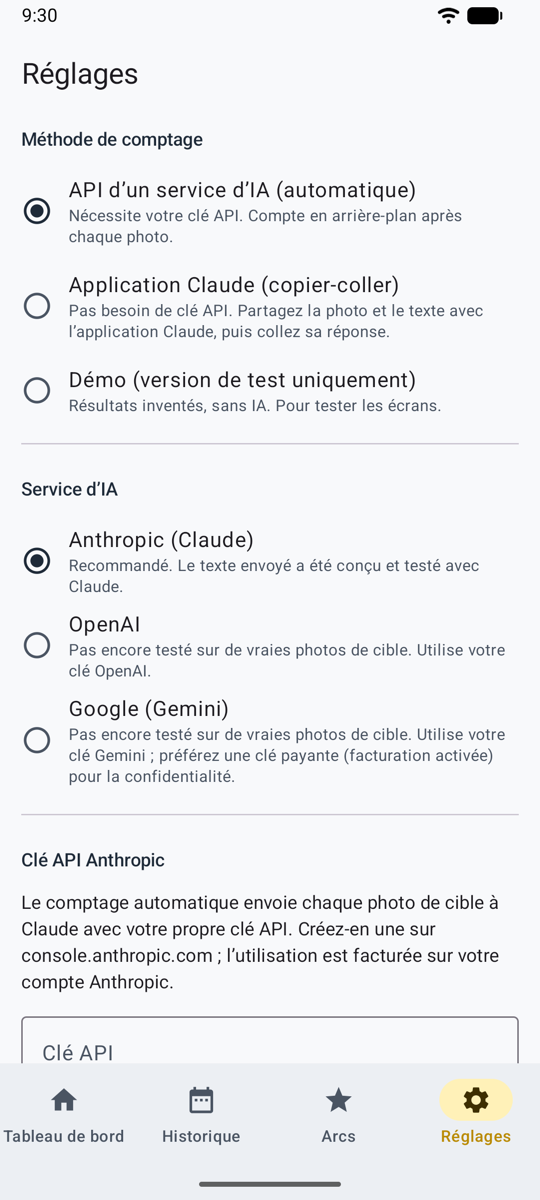
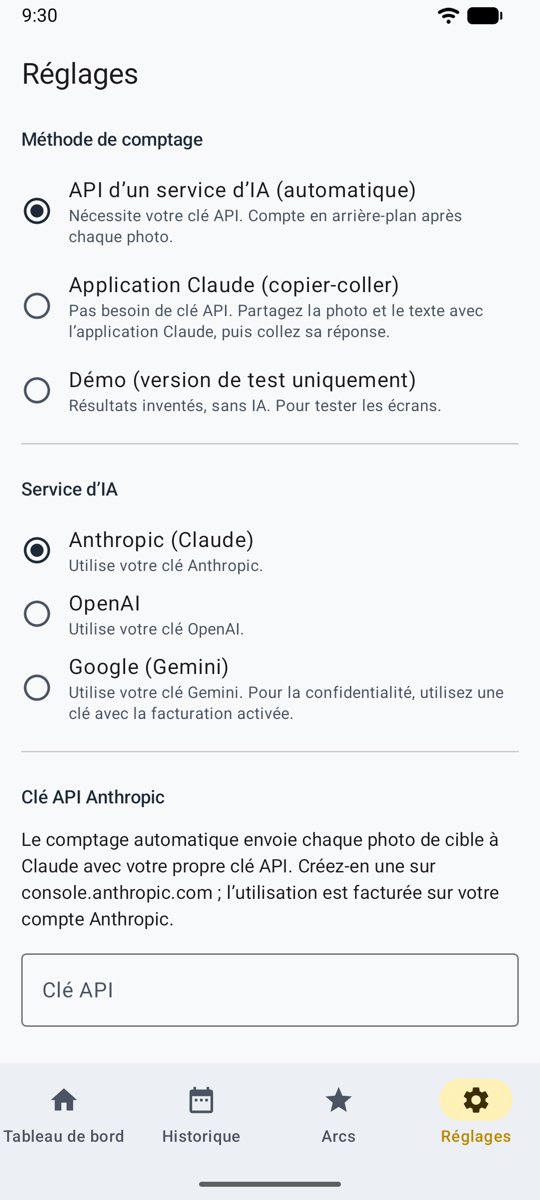
Site: neutral about AI services (no recommendation, no Claude app or copy and paste)

Changed region(s): [[0.0296, 0.4317, 0.9778, 0.8942]]

diff --git a/ullr/docs/guide.fr.md b/ullr/docs/guide.fr.md
@@ -27,26 +27,22 @@ L'application suit la langue de votre téléphone (français ou anglais). Sur An
 
 | Méthode | Il vous faut | Fonctionnement |
 |---------|--------------|----------------|
-| **API d’un service d’IA (automatique)** | Une clé API Anthropic, OpenAI ou Google | Chaque photo est comptée en arrière-plan. La volée est prête à vérifier quelques secondes plus tard. |
-| **Application Claude (copier-coller)** | L'application Claude sur votre téléphone | Vous partagez la photo et un texte avec l'application Claude, puis vous collez sa réponse. Pas de clé. |
+| **API d’un service d’IA (automatique)** | Une clé API du service d'IA de votre choix (Anthropic, Google ou OpenAI) | Chaque photo est comptée en arrière-plan. La volée est prête à vérifier quelques secondes plus tard. |
 | **Saisir à la main** | Rien | Possible sur chaque volée, avec n'importe quelle méthode. |
 
 ### Choisir le service d'IA
 
-![Réglages : la méthode de comptage, puis le choix du service d'IA : Anthropic (Claude), OpenAI ou Google (Gemini), puis la clé du service choisi.](images/screenshots/fr/settings.png){ .shot width="240" }
+![Réglages : la méthode de comptage, puis le choix du service d'IA, puis la clé du service choisi.](images/screenshots/fr/settings.png){ .shot width="240" }
 
 Avec la méthode API, **Réglages → Service d’IA** propose :
 
-| Service | Modèles | Remarques |
-|---------|---------|-----------|
-| **Anthropic (Claude)** | Opus 5.5 (par défaut), Sonnet 5.5 | Recommandé : les consignes ont été conçues et testées avec Claude. |
-| **OpenAI** | GPT-6.1 Sol (par défaut), GPT-6 Astra (le plus puissant, environ 5 fois plus cher) | Pas encore testé sur de vraies photos de cible. |
-| **Google (Gemini)** | Gemini 4 Carbon (par défaut), Gemini 3.8 Flash (plus rapide, moins cher) | Pas encore testé sur de vraies photos de cible. Utilisez une clé d'un projet avec la facturation activée (voir [Confidentialité](privacy.md)). |
+| Service | Modèles |
+|---------|---------|
+| **Anthropic (Claude)** | Opus 5.5 (par défaut), Sonnet 5.5 (moins cher) |
+| **Google (Gemini)** | Gemini 4 Carbon (par défaut), Gemini 3.8 Flash (plus rapide, moins cher). Utilisez une clé d'un projet avec la facturation activée (voir [Confidentialité](privacy.md)). |
+| **OpenAI** | GPT-6.1 Sol (par défaut), GPT-6 Astra (le plus puissant, environ 5 fois plus cher) |
 
 Chaque service garde sa propre clé : vous pouvez changer de service et revenir sans retaper de clé.
-
-!!! note "Un abonnement Claude Pro ou Max"
-    Ullr ne peut pas se connecter avec un abonnement Claude : Anthropic n'autorise ces connexions que dans ses propres applications. La méthode **Application Claude (copier-coller)** est la façon autorisée de compter avec votre abonnement.
 
 ### Obtenir et enregistrer une clé API
 
@@ -65,7 +61,7 @@ La clé est chiffrée sur le téléphone. Elle n'est plus jamais affichée, et *
 
 | Modèle | Par volée | Séance de 30 volées |
 |--------|-----------|---------------------|
-| Claude Opus 5.5 (par défaut) | environ 0,05–0,10 $ US | environ 1,50–3,00 $ US |
+| Claude Opus 5.5 | environ 0,05–0,10 $ US | environ 1,50–3,00 $ US |
 | Claude Sonnet 5.5 | environ 0,03–0,05 $ US | environ 0,75–1,50 $ US |
 | GPT-6.1 Sol | environ 0,02–0,05 $ US | environ 0,60–1,50 $ US |
 | GPT-6 Astra | environ 0,10–0,25 $ US | environ 3–7,50 $ US |
@@ -101,7 +97,7 @@ La clé est chiffrée sur le téléphone. Elle n'est plus jamais affichée, et *
 | en attente de comptage | Pas encore de réseau, ou en file d'attente. Le comptage démarre tout seul au retour du réseau. |
 | comptage en cours… | L'IA lit la photo. |
 | à vérifier | Ouvrez-la et validez. |
-| non comptée | Un problème est survenu. Touchez pour réessayer, saisir à la main ou utiliser l'application Claude. |
+| non comptée | Un problème est survenu. Touchez pour réessayer ou saisir à la main. |
 
 Pas besoin d'attendre : tirez la volée suivante pendant que la précédente est comptée.
 
@@ -198,7 +194,7 @@ Modifier un arc plus tard ne change pas les séances passées.
 
 **La volée indique « non comptée ».** Ouvrez-la pour savoir pourquoi :
 
-- *Pas de clé API :* ajoutez-en une dans les réglages, ou passez à l'application Claude.
+- *Pas de clé API :* ajoutez celle du service choisi dans les réglages.
 - *Clé refusée :* la clé a été supprimée ou mal tapée. Vérifiez-la dans les réglages.
 - *Service indisponible :* l'application a réessayé trois fois. Touchez **Réessayer** plus tard.
 - *Plus de crédit :* ajoutez du crédit chez le service, ou relevez sa limite, puis réessayez.

diff --git a/ullr/docs/guide.md b/ullr/docs/guide.md
@@ -27,26 +27,22 @@ The app follows your phone's language (English or French). On Android 13 and lat
 
 | Method | You need | How it works |
 |--------|----------|--------------|
-| **AI service API (automatic)** (*API d’un service d’IA*) | An API key for Anthropic, OpenAI or Google | Each photo is scored in the background. The end is ready to check a few seconds later. |
-| **Claude app (copy and paste)** (*Application Claude*) | The Claude app on your phone | You share the photo and a prompt to the Claude app, then paste its answer back. No key needed. |
+| **AI service API (automatic)** (*API d’un service d’IA*) | An API key for the AI service of your choice (Anthropic, Google or OpenAI) | Each photo is scored in the background. The end is ready to check a few seconds later. |
 | **Score by hand** | Nothing | Available on every end, with any method. |
 
 ### Choose the AI service
 
-![Settings: scoring method, then the AI service choice: Anthropic (Claude), OpenAI or Google (Gemini), then the key for the chosen service.](images/screenshots/settings.png){ .shot width="240" }
+![Settings: scoring method, then the choice of AI service, then the key for the chosen service.](images/screenshots/settings.png){ .shot width="240" }
 
 With the API method, **Settings → AI service** (*Service d’IA*) offers:
 
-| Service | Models | Notes |
-|---------|--------|-------|
-| **Anthropic (Claude)** | Opus 5.5 (default), Sonnet 5.5 | Recommended: the instructions were designed and tested with Claude. |
-| **OpenAI** | GPT-6.1 Sol (default), GPT-6 Astra (most capable, about 5 times the price) | Not tested on real target photos yet. |
-| **Google (Gemini)** | Gemini 4 Carbon (default), Gemini 3.8 Flash (faster, cheaper) | Not tested on real target photos yet. Use a key from a project with billing turned on (see [Privacy](privacy.md)). |
+| Service | Models |
+|---------|--------|
+| **Anthropic (Claude)** | Opus 5.5 (default), Sonnet 5.5 (cheaper) |
+| **Google (Gemini)** | Gemini 4 Carbon (default), Gemini 3.8 Flash (faster, cheaper). Use a key from a project with billing turned on (see [Privacy](privacy.md)). |
+| **OpenAI** | GPT-6.1 Sol (default), GPT-6 Astra (most capable, about 5 times the price) |
 
 Each service keeps its own key, so you can switch and come back without typing a key again.
-
-!!! note "A Claude Pro or Max subscription"
-    Ullr can't sign in with a Claude subscription: Anthropic only allows those logins in its own apps. The **Claude app (copy and paste)** method is the permitted way to score with your subscription.
 
 ### Get and save an API key
 
@@ -65,7 +61,7 @@ The key is stored encrypted on the phone. It is never shown again, and **Remove 
 
 | Model | Per end | 30-end session |
 |-------|---------|----------------|
-| Claude Opus 5.5 (default) | about $0.05–0.10 | about $1.50–3.00 |
+| Claude Opus 5.5 | about $0.05–0.10 | about $1.50–3.00 |
 | Claude Sonnet 5.5 | about $0.03–0.05 | about $0.75–1.50 |
 | GPT-6.1 Sol | about $0.02–0.05 | about $0.60–1.50 |
 | GPT-6 Astra | about $0.10–0.25 | about $3–7.50 |
@@ -101,7 +97,7 @@ The key is stored encrypted on the phone. It is never shown again, and **Remove 
 | waiting to score (*en attente de comptage*) | No network yet, or queued. It starts by itself when the network comes back. |
 | scoring… (*comptage en cours…*) | The AI is reading the photo. |
 | ready to check (*à vérifier*) | Open it and confirm. |
-| not scored (*non comptée*) | Something went wrong. Tap to retry, score by hand, or use the Claude app. |
+| not scored (*non comptée*) | Something went wrong. Tap to retry or score by hand. |
 
 You don't have to wait: shoot the next end while the previous one is being scored.
 
@@ -198,7 +194,7 @@ Changing a bow later doesn't change past sessions.
 
 **The end says "not scored".** Open it to see why:
 
-- *No API key:* add one in Settings, or switch to the Claude app.
+- *No API key:* add the chosen service's key in Settings.
 - *Key refused:* the key was deleted or mistyped. Check it in Settings.
 - *Service unavailable:* the app retried three times. Tap **Retry** (*Réessayer*) later.
 - *No credit left:* add credit with that service, or raise its limit, then retry.

diff --git a/ullr/docs/how-it-works.fr.md b/ullr/docs/how-it-works.fr.md
@@ -70,18 +70,19 @@ Vous corrigez une flèche entourée d'une touche, ajoutez une flèche oubliée o
 
 <div class="shots" markdown>
 <figure markdown>
-![Réglages : la méthode de comptage et le choix entre Anthropic, OpenAI et Google Gemini.](images/screenshots/fr/settings.png){ .shot }
+![Réglages : la méthode de comptage et le choix du service d'IA.](images/screenshots/fr/settings.png){ .shot }
 <figcaption>Choisir l'IA dans les réglages</figcaption>
 </figure>
 </div>
 
-| Service | Comment | Remarques |
-|---------|---------|-----------|
-| **Claude d'Anthropic** | Votre propre clé API | Recommandé. |
-| **OpenAI** | Votre propre clé API | Mêmes consignes. Pas encore testé sur de vraies photos de cible. |
-| **Google Gemini** | Votre propre clé API | Mêmes consignes. Pas encore testé sur de vraies photos de cible. |
-| **Application Claude** | Copier-coller, sans clé | Utilise votre propre compte ou abonnement Claude. |
-| **À la main** | Rien | Toujours possible, sur chaque volée. |
+| Service | Comment |
+|---------|---------|
+| **Anthropic (Claude)** | Votre propre clé API |
+| **Google (Gemini)** | Votre propre clé API |
+| **OpenAI** | Votre propre clé API |
+| **À la main** | Rien : toujours possible, sur chaque volée |
+
+Les trois services reçoivent exactement les mêmes consignes. Vous choisissez celui que vous préférez, et vous pouvez en changer à tout moment.
 
 ## Au pas de tir
 

diff --git a/ullr/docs/how-it-works.md b/ullr/docs/how-it-works.md
@@ -70,18 +70,19 @@ You fix any circled arrow with one tap, add a missed arrow or remove another arc
 
 <div class="shots" markdown>
 <figure markdown>
-![Settings: scoring method and the choice of Anthropic, OpenAI or Google Gemini.](images/screenshots/settings.png){ .shot }
+![Settings: scoring method and the choice of AI service.](images/screenshots/settings.png){ .shot }
 <figcaption>Choosing the AI in Settings</figcaption>
 </figure>
 </div>
 
-| Service | How | Notes |
-|---------|-----|-------|
-| **Anthropic Claude** | Your own API key | Recommended. |
-| **OpenAI** | Your own API key | Same instructions. Not yet tested on real target photos. |
-| **Google Gemini** | Your own API key | Same instructions. Not yet tested on real target photos. |
-| **Claude app** | Copy and paste, no key | Uses your own Claude account or subscription. |
-| **By hand** | Nothing | Always possible, on any end. |
+| Service | How |
+|---------|-----|
+| **Anthropic (Claude)** | Your own API key |
+| **Google (Gemini)** | Your own API key |
+| **OpenAI** | Your own API key |
+| **By hand** | Nothing: always possible, on any end |
+
+All three services receive exactly the same instructions. Pick the one you prefer, and change it any time.
 
 ## At the range
 

diff --git a/ullr/docs/index.fr.md b/ullr/docs/index.fr.md
@@ -80,7 +80,7 @@ hide:
 |---|---|
 | **Toutes vos séances** | Lieu, date, type d'arc (traditionnel, classique, olympique, à poulies) et arc, distance, blason, nombre de blasons sur la butte, n'importe quel nombre de flèches par volée. |
 | **Votre règle de comptage** | X = 10, 10 intérieur seulement (arc à poulies World Archery) ou X = 11, choisie pour chaque séance, avec une valeur par défaut dans les réglages. Changez-la plus tard : tous les totaux sont recalculés. |
-| **Le choix de l'IA** | Claude d'Anthropic (recommandé), OpenAI ou Google Gemini avec votre propre clé, ou l'application Claude en copier-coller, sans clé. |
+| **Le service d'IA de votre choix** | Anthropic (Claude), Google (Gemini) ou OpenAI, avec votre propre clé API. Les trois reçoivent les mêmes consignes. |
 | **Pensé pour le pas de tir** | Pas de réseau ? Les photos sont enregistrées et comptées dès que le téléphone est de nouveau en ligne. Vous pouvez toujours saisir une volée à la main. |
 | **Vos arcs** | Plusieurs arcs, avec un catalogue d'arcs à poulies actuels (PSE, Hoyt, Mathews, Bowtech), puissance et allonge. |
 | **Français et anglais** | Toute l'application suit la langue de votre téléphone. |

diff --git a/ullr/docs/index.md b/ullr/docs/index.md
@@ -80,7 +80,7 @@ hide:
 |---|---|
 | **Any session** | Place, date, bow type (traditional, recurve, olympic, compound) and bow, distance, target face, number of paper faces, any number of arrows per end. |
 | **Your scoring rule** | X = 10, inner 10 only (World Archery compound) or X = 11, chosen per session, with a default in Settings. Change it later and every total is recalculated. |
-| **Choice of AI** | Anthropic Claude (recommended), OpenAI or Google Gemini with your own key, or the Claude app by copy and paste, with no key. |
+| **The AI service of your choice** | Anthropic (Claude), Google (Gemini) or OpenAI, with your own API key. All three get the same instructions. |
 | **Works at the range** | No signal? Photos are saved and scored when the phone is back online. You can always score an end by hand. |
 | **Bows** | Several bows, with a catalog of current compound bows (PSE, Hoyt, Mathews, Bowtech), draw weight and draw length. |
 | **English and French** | The whole app follows your phone's language. |

diff --git a/ullr/docs/roadmap.fr.md b/ullr/docs/roadmap.fr.md
@@ -7,7 +7,7 @@ Ullr est un projet personnel, construit au grand jour. Voici où il en est.
 - [x] Des séances avec n'importe quel arc, blason, nombre de blasons et de flèches par volée, y compris deux trispots à la fois
 - [x] Le comptage par IA à partir d'une photo, avec les flèches incertaines entourées et une correction d'une touche
 - [x] La règle de la ligne et votre règle de comptage (X = 10, 10 intérieur, X = 11) expliquées à l'IA avec chaque photo
-- [x] Le choix de l'IA : Claude d'Anthropic, OpenAI ou Google Gemini avec votre propre clé, ou l'application Claude sans clé
+- [x] Le service d'IA de votre choix (Anthropic, Google ou OpenAI), avec votre propre clé
 - [x] Fonctionne sans réseau : les photos sont enregistrées et comptées plus tard, ou saisies à la main
 - [x] Tableau de bord, historique, feuille de marque et graphique des volées
 - [x] Vos arcs, avec un catalogue d'arcs à poulies actuels, la puissance et l'allonge

diff --git a/ullr/docs/screenshots.fr.md b/ullr/docs/screenshots.fr.md
@@ -56,8 +56,8 @@ Prises avec **Ullr Demo**, une version de l'application remplie de six mois de s
 
 <div class="shots" markdown>
 <figure markdown>
-![Réglages : la méthode API d'un service d'IA, et le choix entre Anthropic, OpenAI et Google Gemini.](images/screenshots/fr/settings.png){ .shot }
-<figcaption><b>Le choix de l'IA.</b> Anthropic (recommandé), OpenAI ou Google Gemini.</figcaption>
+![Réglages : la méthode API d'un service d'IA, et le choix du service.](images/screenshots/fr/settings.png){ .shot }
+<figcaption><b>Le choix de l'IA.</b> Le service de votre choix, avec votre propre clé.</figcaption>
 </figure>
 <figure markdown>
 ![La section Confidentialité des réglages : l'option N'envoyer que la zone de la cible, et ce qui est envoyé et ce qui ne l'est jamais.](images/screenshots/fr/settings-privacy.png){ .shot }

diff --git a/ullr/docs/roadmap.md b/ullr/docs/roadmap.md
@@ -7,7 +7,7 @@ Ullr is a personal project, built in the open. Here's where it stands.
 - [x] Sessions with any bow, face, number of paper faces and arrows per end, including two 3-spot faces at once
 - [x] AI scoring from a photo, with uncertain arrows circled and a one-tap fix
 - [x] The line rule and your scoring rule (X = 10, inner 10, X = 11) explained to the AI with every photo
-- [x] Choice of AI: Anthropic Claude, OpenAI or Google Gemini with your own key, or the Claude app with no key
+- [x] The AI service of your choice (Anthropic, Google or OpenAI), with your own key
 - [x] Works without signal: photos are saved and scored later, or scored by hand
 - [x] Dashboard, history, scoresheet and score-by-end chart
 - [x] Bows, with a catalog of current compound bows, draw weight and draw length

diff --git a/ullr/docs/screenshots.md b/ullr/docs/screenshots.md
@@ -56,8 +56,8 @@ Taken with **Ullr Demo**, a version of the app filled with six months of made-up
 
 <div class="shots" markdown>
 <figure markdown>
-![Settings: scoring method AI service API, and the choice of Anthropic, OpenAI or Google Gemini.](images/screenshots/settings.png){ .shot }
-<figcaption><b>Choice of AI.</b> Anthropic (recommended), OpenAI or Google Gemini.</figcaption>
+![Settings: scoring method AI service API, and the choice of service.](images/screenshots/settings.png){ .shot }
+<figcaption><b>Choice of AI.</b> The service of your choice, with your own key.</figcaption>
 </figure>
 <figure markdown>
 ![Settings privacy section: the send only the target area switch, and what is sent and never sent.](images/screenshots/settings-privacy.png){ .shot }

diff --git a/ullr/docs/privacy.fr.md b/ullr/docs/privacy.fr.md
@@ -41,8 +41,6 @@ Les réglages affichent la même liste, sous **Ce qui est envoyé à …**, pour
 !!! warning "Gemini : utilisez une clé avec la facturation activée"
     Avec l'offre gratuite de Google, vos photos de cible peuvent être utilisées par Google et vues par des examinateurs. Utilisez une clé d'un projet Google Cloud avec la facturation activée. Ullr ne peut pas le vérifier à votre place.
 
-Avec la méthode **Application Claude**, la photo recadrée et le texte passent par votre propre compte Claude, et restent dans cette conversation comme n'importe quel autre échange.
-
 ## Votre clé API
 
 - Elle est chiffrée sur le téléphone, n'est plus jamais affichée, et n'est jamais mise dans un export.

diff --git a/ullr/docs/security.fr.md b/ullr/docs/security.fr.md
@@ -75,9 +75,6 @@ Seulement l'appareil photo, pour photographier la cible, et l'accès à Internet
 **Quelqu'un vérifie-t-il l'application ?**
 Chaque modification est testée automatiquement : plus de 75 tests couvrent le comptage, les consignes envoyées à l'IA, et exactement ce qui sort du téléphone. La conception a été revue sous l'angle de la confidentialité et de la sécurité, et les bibliothèques utilisées sont tenues à jour.
 
-**Et si j'utilise l'application Claude au lieu d'une clé ?**
-La photo recadrée passe alors par votre propre compte Claude, comme l'une de vos conversations. Ullr ne voit jamais vos identifiants Claude.
-
 ## Une bonne habitude
 
 !!! tip "Trois minutes, une seule fois"
